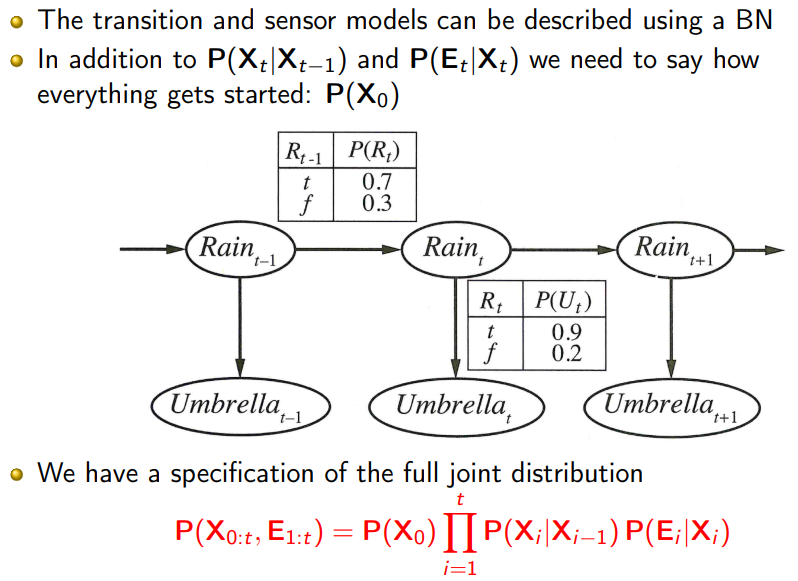
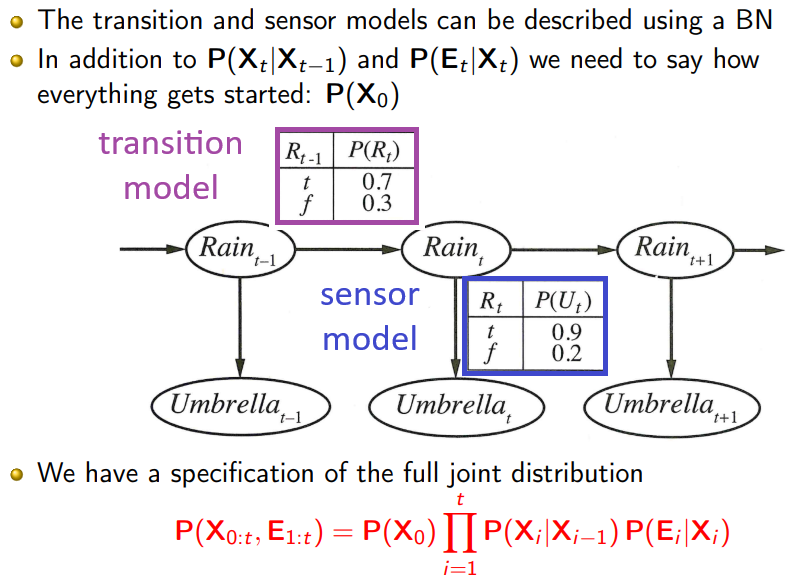
obrazky, podrobnosti

diff --git a/Metody_umele_inteligence.md b/Metody_umele_inteligence.md
@@ -452,22 +452,20 @@ pozdějších krocích, kdy se prohledávání propojí s reálnou počáteční
 <img alt="img.png" src="img/metody_umele_inteligence/back-for-plan.png" width="900"/>
 
 ---
-
 ## Práce s neurčitostí
 
 Čistě logické odvozování v reálném světě naráží na neúplnost informací a šum senzorů. Teorie pravděpodobnosti poskytuje exaktní matematický 
 aparát pro reprezentaci neurčitosti, kvantifikaci rizika a optimální rozhodování.
 
-$Y$ představuje dotazovanou proměnnou, $Z$ značí množinu skrytých proměnných, $z$ je konkrétní stav skrytých 
-proměnných, $x, y$ vyjadřují konkrétní jevy a $P(x \mid y)$ je podmíněná pravděpodobnost jevu $x$ za předpokladu $y$.
+$Y$ představuje dotazovanou proměnnou, $E$ značí množinu pozorovaných proměnných (evidence) s konkrétními hodnotami $e$, $Z$ značí množinu skrytých (nezařazených) proměnných, $z$ je konkrétní stav skrytých proměnných, $x, y$ vyjadřují konkrétní jevy a $P(x \mid y)$ je podmíněná pravděpodobnost jevu $x$ za předpokladu $y$.
 
-* **Sdružená pravděpodobnostní distribuce (Joint probability distribution):** Tabulka pokrývající pravděpodobnosti všech možných kombinací 
-stavů v doméně. Umožňuje odpovědět na jakýkoli dotaz, ale její velikost roste exponenciálně ($2^n$).
-* **Marginalizace (Marginalization / Summing out):** Výpočet pravděpodobnosti menší množiny proměnných sečtením (integrováním) pravděpodobností 
-přes všechny možné hodnoty ostatních (skrytých) proměnných $Z$: 
-$$P(Y) = \sum_{z \in Z} P(Y, z)$$
-* **Bayesův teorém (Bayes' theorem):** Základní vztah umožňující otočit směr podmínění, což je klíčové pro diagnostické systémy určující 
-pravděpodobnost skryté příčiny na základě pozorovaných efektů: 
+* **Sdružená pravděpodobnostní distribuce (Joint probability distribution):** Kompletní tabulka pokrývající pravděpodobnosti všech možných kombinací stavů všech proměnných v doméně. Umožňuje exaktně odpovědět na jakýkoli dotaz, ale její velikost roste exponenciálně ($2^n$), což ji činí pro reálné systémy výpočetně i paměťově neúnosnou.
+* **Absolutní nezávislost (Independence):** Jevy $X$ a $Y$ jsou nezávislé, pokud vědomí o jednom nezmění pravděpodobnost druhého ($P(X \mid Y) = P(X)$). Umožňuje sdruženou distribuci kompletně rozložit na součin separátních tabulek: $P(X, Y) = P(X)P(Y)$. V reálném světě je však takto čistá nezávislost vzácná.
+* **Podmíněná nezávislost (Conditional independence):** Jevy $X$ a $Y$ jsou nezávislé *za předpokladu* znalosti třetího jevu $Z$, pokud platí $P(X \mid Y, Z) = P(X \mid Z)$. Toto je nejdůležitější koncept pro redukci komplexnosti v AI (základ Bayesovských sítí) – např. symptomy pacienta jsou na sobě nezávislé, jakmile známe samotnou diagnózu (příčinu).
+* **Marginalizace (Marginalization / Summing out):** Výpočet pravděpodobnosti menší množiny proměnných sečtením pravděpodobností přes všechny možné hodnoty ostatních (skrytých) proměnných $Z$. V praxi se často kombinuje s podmíněním pro výpočet dotazu $Y$ při známém pozorování $e$: 
+$$P(Y \mid e) = \alpha P(Y, e) = \alpha \sum_{z \in Z} P(Y, e, z)$$
+*(kde $\alpha$ je normalizační konstanta zajišťující, že součet pravděpodobností výsledného vektoru bude přesně 1).*
+* **Bayesův teorém (Bayes' theorem):** Základní vztah odvozený z definice podmíněné pravděpodobnosti, umožňující otočit směr podmínění. To je klíčové pro diagnostické systémy určující pravděpodobnost skryté příčiny na základě pozorovaných efektů/symptomů, které lze snadno statisticky měřit z opačného směru: 
 $$P(\text{příčina} \mid \text{efekt}) = \frac{P(\text{efekt} \mid \text{příčina}) \times P(\text{příčina})}{P(\text{efekt})}$$
 
 ---
@@ -529,21 +527,20 @@ proměnných v momentě průchodu. Výsledná distribuce se následně normalizu
 
 ## Čas a neurčitost
 
-Při modelování dynamického světa v čase se využívá rozdělení na diskrétní časové řezy (*time slices*). Rozlišujeme skryté náhodné 
-proměnné $X_t$ (stav systému) a pozorovatelné proměnné $E_t$ (evidence/měření ze senzorů).
+Při modelování dynamického světa v čase se využívá rozdělení na diskrétní časové řezy (*time slices*). Rozlišujeme skryté náhodné proměnné $X_t$ (skutečný stav systému) a pozorovatelné proměnné $E_t$ (evidence/měření ze senzorů).
 
-$X_t$ představuje skrytou stavovou proměnnou v čase $t$, $E_t$ značí pozorovatelnou proměnnou v čase $t$, 
-$e_t$ vyjadřuje konkrétní hodnotu pozorování, $X_{0:t}$ je sekvence skrytých stavů od času 0 do $t$ a $E_{1:t}$ vyjadřuje sekvenci pozorování 
-od času 1 do $t$.
+$X_t$ představuje skrytou stavovou proměnnou v čase $t$, $E_t$ značí pozorovatelnou proměnnou v čase $t$, $e_t$ vyjadřuje konkrétní hodnotu pozorování, $X_{0:t}$ je sekvence skrytých stavů od času 0 do $t$ a $E_{1:t}$ vyjadřuje sekvenci pozorování od času 1 do $t$.
 
-Aby byl model výpočetně realizovatelný, zavádí se dva základní předpoklady:
-* *Markovský předpoklad (Markov property / assumption):* Aktuální skrytý stav systému závisí striktně pouze na stavu bezprostředně předcházejícím: 
-$P(X_t \mid X_{0:t-1}) = P(X_t \mid X_{t-1})$. Starší historie nemá na budoucnost vliv. Pokud se pravidla přechodů v čase nemění, jde o stacionární proces.
-* *Senzorický Markovský předpoklad (Sensor Markov assumption):* Evidence $E_t$ v čase $t$ závisí výhradně na současném skrytém stavu světa $X_t$: 
-$P(E_t \mid X_{0:t}, E_{1:t-1}) = P(E_t \mid X_t)$.
+Tento dynamický proces je v každém časovém kroku formálně popsán dvěma komponentami, které pro zajištění výpočetní realističnosti využívají zjednodušující **Markovské předpoklady**:
 
+* **Přechodový model (Transition model):** Definuje distribuci $P(X_t \mid X_{0:t-1})$ popisující „fyziku“ vývoje stavu v čase. Abychom nemuseli uvažovat celou historii až do počátku věků, aplikuje se **Markovský předpoklad (Markov property)**: aktuální stav závisí striktně pouze na stavu bezprostředně předcházejícím:
+  $$P(X_t \mid X_{0:t-1}) = P(X_t \mid X_{t-1})$$
+  Pokud se tato pravidla v čase nemění (stacionární proces), lze model v diskrétním případě reprezentovat jako fixní *Matici přechodu*.
 
 <img alt="img.png" src="img/metody_umele_inteligence/markov.png" width="400"/>
+
+* **Senzorický model (Sensor / Observation model):** Definuje distribuci $P(E_t \mid X_{0:t}, E_{1:t-1})$ určující, s jakou pravděpodobností senzory vygenerují měření $E_t$. Zde se uplatňuje **Senzorický Markovský předpoklad (Sensor Markov assumption)**: aktuální měření závisí výhradně na současném skrytém stavu světa $X_t$ a historická měření ani staré stavy na něj nemají vliv:
+  $$P(E_t \mid X_{0:t}, E_{1:t-1}) = P(E_t \mid X_t)$$
 
 Celý časový vývoj lze popsat dynamickou Bayesovskou sítí jako součin lokálních přechodových a senzorických modelů: 
 $$P(X_{0:t}, E_{1:t}) = P(X_0) \prod_{i=1}^{t} P(X_i \mid X_{i-1}) P(E_i \mid X_i)$$
